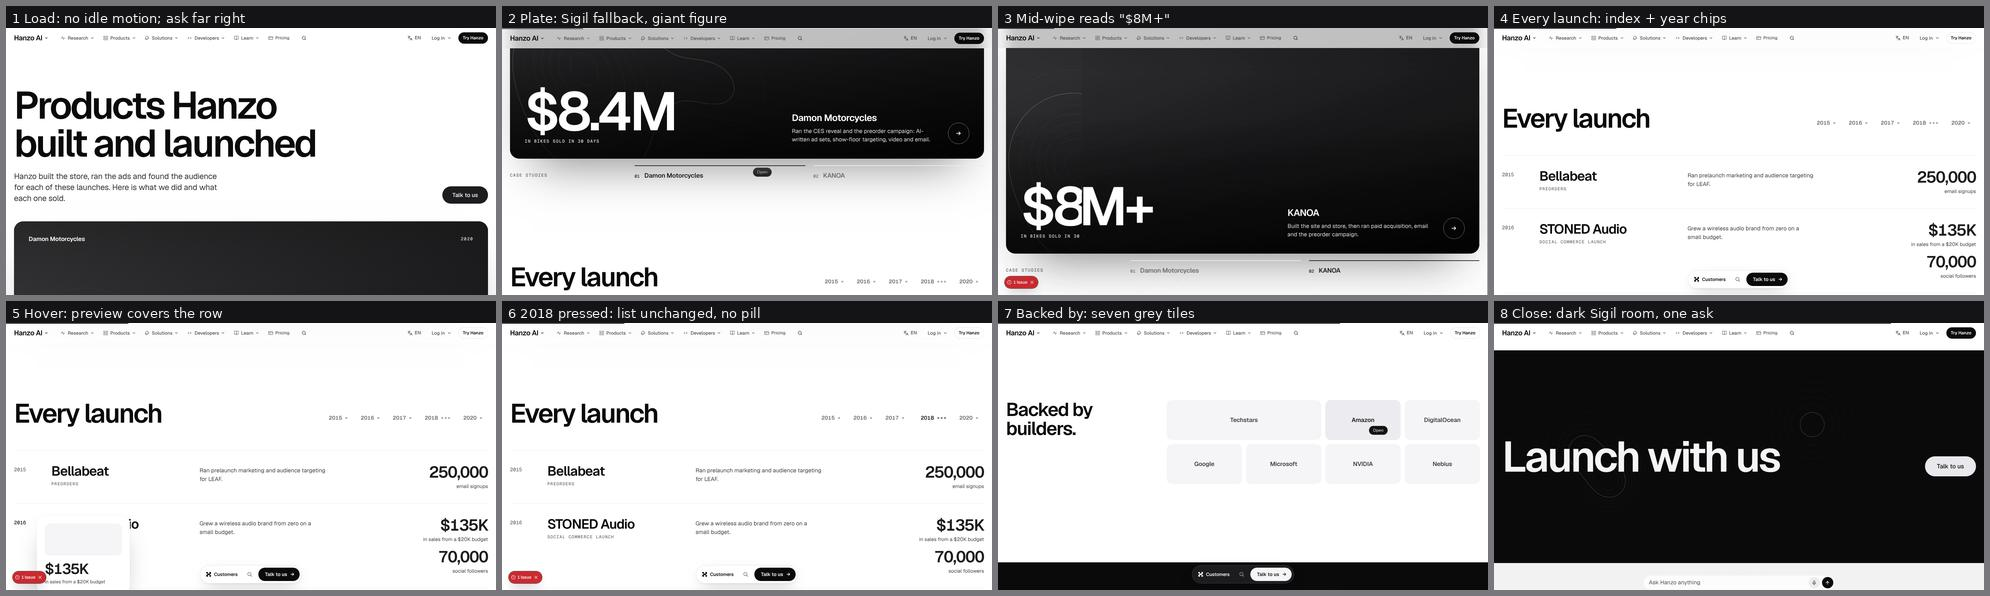
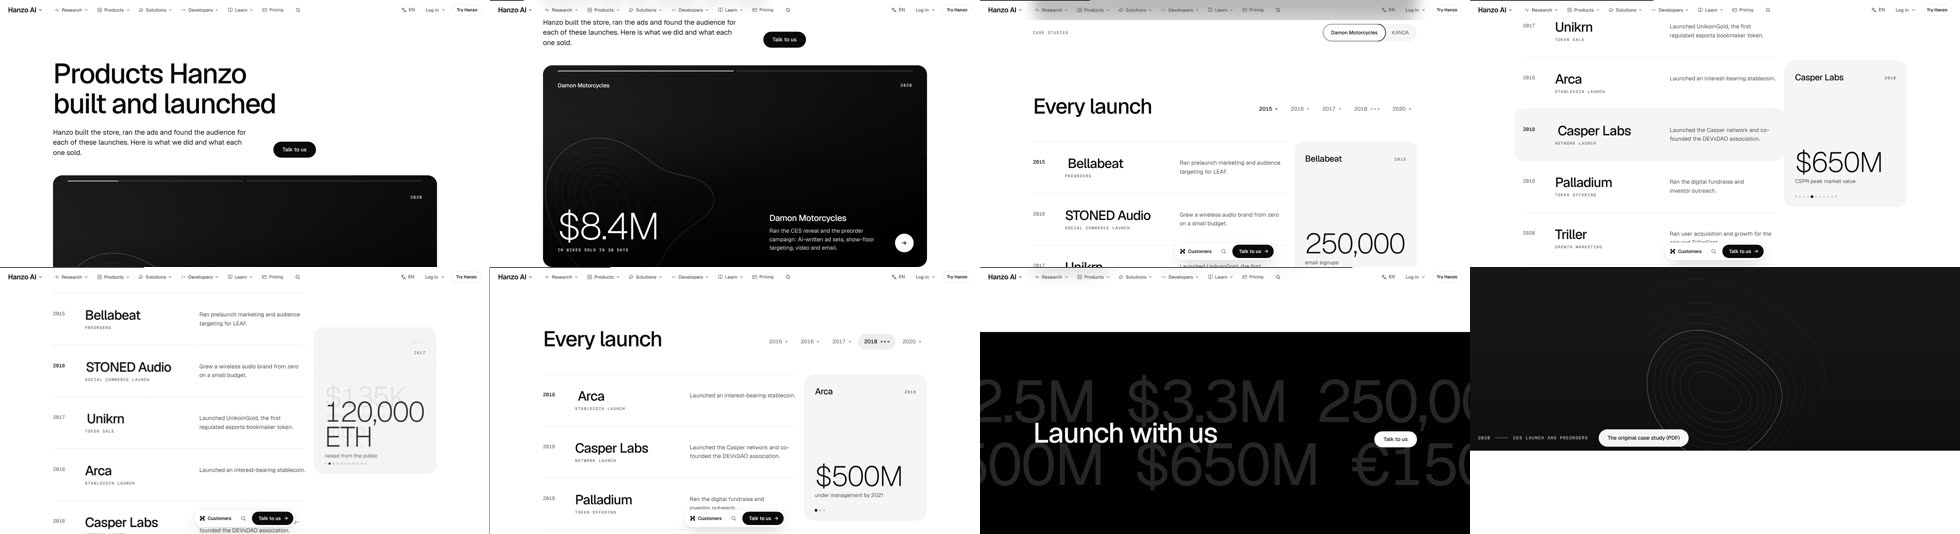
review: /customers re-run (7/10)
Claude-Session: https://claude.ai/code/session_01DqUybCfU4GgFpPAvhZChtu

diff --git a/docs/review/customers.md b/docs/review/customers.md
@@ -1,62 +1,101 @@
 # /customers — James-eye review
 
-Verdict: 6/10
-First complaint: "After the first big picture it's just a long list of names and numbers again. And I click 2018 and nothing happens."
+Verdict: 7/10
+First complaint: "On the phone, 'Every launch' is still four screens of names and numbers with nothing coming in or going out. And on the desktop, when the big number changes, the old one is still showing under the new one."
 
-Walked 7 Nov, page file at `11ec192` (`components/pages/Customers.jsx`, `Customers.css`). Filmed moving at 1470×801 and 375×812: wheel and finger scroll with a dwell on every screen, hover and press on desktop, taps on the phone, and a click on each case. Also checked a reload without the curtain, reduced motion, JS off, and widths of 320 and 375. Stills: `review/customers/desktop-walk.jpg`, `review/customers/phone-walk.jpg`. Case covers and logos are blocked in this box, so the plate shows its grey-and-Sigil fallback and the wall shows names. One run logged a hydration mismatch, but six later loads did not repeat it, so it is not counted.
+Walked 7 Nov, page file at `d996c96` (`components/pages/Customers.jsx`, `Customers.css`). I filmed it moving at 1470×801 and at 375×812 (isMobile, hasTouch), on a fresh visit and on a return visit. The walk scrolled with the wheel and by touch, dwelling on every screen. On desktop it hovered and pressed; on the phone it tapped. It used the year filter, the case tabs (mouse and arrow keys) and opened both cases. I also checked reduced motion, JS off, 320 and 375 wide, a Tab crawl, CLS and the console. Stills: `review/customers/desktop-walk.jpg`, `review/customers/phone-walk.jpg`.
+
+The arrival curtain never shows on /customers. It is home-only, and I tested that with automation hidden, so a first visit and a return visit behave the same here. Covers and logos come from hanzo.ai through the dev rewrite, which is blocked in this box, so I judged the plate's Sigil fallback and the name fallbacks. On the phone, the dev "1 Issue" badge is a hydration mismatch in the shared `FooterHTML` (`dangerouslySetInnerHTML` differs). It is not this page's fault: it showed 5 of 5 times when screenshots ran during load and 0 of 8 times otherwise.
 
 ## What works
-- The headline is a real Display moment: 115px in Zen, line height 0.94, one h1, and nothing above it. On a load without the curtain it cuts in line by line. CLS is 0.000002 on desktop and 0.00003 on the phone, with no font swap.
-- 0 UI hues. Everything is ink and greys, with one dark room. No eyebrows, no native tooltips, no browser-default controls.
-- The case plate is the right object. One case at a time, with its own figure as a 162px numeral. It wipes to the other case once (1.1s, in-out) and rests. On hover the arrow fills and moves 4px. Buttons and tiles press at .98, and tabs move 1px.
-- The index preview follows the pointer on a spring. When a logo fails it falls back to the launch name.
-- One ask in Hanzo's words, "Talk to us", in the hero and the close (`data-thumb`, `data-cta`). The shared bar carries it at both widths once the plate has passed.
-- Parity: text 72/72, links 10/10. Reduced motion leaves 0 running animations. With JS off every word is legible. On the phone no tap target in `main` is under 44px. No sideways scroll at 320 or 375. Clicking either case opens its own page.
+- **Every fix from the last review is in, and I verified each one moving:**
+  - The year chips filter: 11 rows become 3, the rest glide up 466px in about 200ms, and the page shortens from 5,608 to 4,346px.
+  - The pill shows (111×48, `#ededed`).
+  - The row sheet paints (`#f5f5f5`, opacity 1).
+  - The pointer preview is gone, and a pinned stage beside the rows does its job.
+  - The ask sits beside the lede (x=820, y=425 at 1470).
+  - The shared bar takes over at about scroll 719 on desktop and 600 on the phone, so there is no gap.
+  - The case tabs are kit `Tabs`; arrow keys move both the selection and focus.
+  - The 01/02 marks and the seven tiles are gone.
+- **The desktop index is now a scene.** As each row crosses the middle, the stage brings in that launch's figure at 84px Air and lifts the last one out: Bellabeat 250,000 → STONED $135K → Unikrn 120,000 ETH → Arca $500M → … → Personas Social. Pointing at a row answers at once: sheet, name 8px, stage. The hover tells you a number, which is exactly James's rule.
+- **The first screen moves on its own.**
+  - The plate's line starts filling as soon as the page is up (12% threshold).
+  - The h1 cuts in by line.
+  - The plate wipes to KANOA at about 6s, then back, and rests.
+  - Even the Sigil fallback drifts.
+  - The h1 is the deck's 84px/1.02, one h1, with nothing above it.
+- **The close is its own room.** "Launch with us" sits over two rows of Hanzo's own figures in `#262626` that slide against each other with the scroll. White "Talk to us"; the bar steps aside. There is no third Sigil room.
+- **The doorway open works.** On a warm load, ink grows from the plate (640ms) and lifts off the Damon page about 750ms after the click. Back returns to scroll 250.
+- **Housekeeping is clean.**
+  - CLS is 0.000005 on desktop and 0.000018 on the phone, with no font swap.
+  - Parity is 72/72 text and 10/10 links; `taste.py`, `unique.py` and `variety.py` pass.
+  - Reduced motion leaves 0 running animations, the plate holds, and the h1 is final.
+  - No sideways scroll at 320 or 375, and no phone tap target in `main` is under 44px.
+  - On a Tab crawl every stop shows the 2px ink ring with a white halo, and none sits under the header or the bar.
 
 ## The 11 answers
-1. **Sells in 5 seconds, moves within 1 second?** The words sell, and the ask is on the first screen at both sizes. But at 1470 the ask sits alone at x=1309, 650px right of the lede. Movement on the phone: yes (the plate wipes, its tab line fills, and the Sigil drifts). On desktop: no. On a first visit the headline cut-in plays under the arrival curtain. In the second after the curtain lifts, the only change is a faint Sigil sliver (6 grey levels or less, in a 165×12px strip). The plate's timer waits until 30% of its stage is on screen, and the first screen shows 27%, so nothing turns until you scroll.
-2. **One in, one out, or a document?** The hero and the plate are a scene. After that, "Every launch" is 11 static rows holding 11 figures, about 2,000px at 1470 and longer on the phone. That is a document. "Backed by builders." is a still grid. Nothing comes in or goes out as you scroll. The closing headline's cut-in is the only arrival after the hero.
-3. **A real visual object in every section?** Partly. Hero: the plate (with the fallback it is a dark slab at the fold, and its contour is barely visible). Index: type only, with logos at 24px and 55% opacity. Backers: seven grey tiles. Close: the Sigil.
-4. **One ask, sticky after the hero?** Phone: yes. Desktop: the bar waits for the whole hero section, and that section includes the plate and its tabs. So from scroll ≈530 to ≈1,420 neither "Talk to us" is on screen, only the header's "Try Hanzo". The first screen at both widths also shows two solid black pills, "Try Hanzo" and "Talk to us". That is the site header's behaviour, against PLAN 0.9.
-5. **Every hover and press answers, no jumps?** The hero ask, the plate, the tabs, the wall and the closing ask: yes. But four things fail:
-   - **Year chips.** The colour changes but the list does not, at either width. 10 rows get `hidden`, but `.xcu-row{display:grid}` overrides it, so all 11 stay on screen.
-   - **The year pill never shows.** It measures 0×0, because `.xcu-years button > span{position:relative}` beats `.xcu-pill{position:absolute}`.
-   - **The rows' "grey sheet" never appears.** Its `::before` at `z-index:-1` paints behind the page's white (sampled: white).
-   - **The preview card.** It lands at the pointer plus 28px, covers the hovered row's own name and description, and the ask bar sits on top of it. Its figure repeats the row's figure.
-
-   Also, the case tabs ignore the arrow keys.
-6. **Overlaps, font swap, layout shift?** At rest: no overlaps at either size, no swap, CLS ≈0. On hover: the preview covers the row and the ask bar covers the preview. Mid-wipe, for a few frames, the plate reads "$8M+ IN BIKES SOLD IN 30" beside "KANOA". While a logo is pending, its slot shows a grey bar (the `.x-media` fill under the invert filter); this is on the phone's first screen.
-7. **Which reference, is its motion there?** The plate feels like an Apple product tile, and the index with its pointer preview feels like osply or hamol. synchronized.studio is claimed: the picture carries `data-morph` and the case cover carries `data-morph-target`. But only the picture flies. The title (28px, bottom right) and the $8.4M figure do not land on the destination h1. In this box every View Transition aborts (it does the same from /solutions), so the screen holds and then cuts, and the open could not be judged moving. The route is correct.
-8. **Different from neighbours?** The hero, yes. /investors has a figure card, /enterprise a device, /press a stack of kit cards and /about a curve; a full-width case plate is this page's own. The close is the third Sigil room in the company pages, after /investors and /press.
-9. **18 areas (PLAN-COMPONENTS)?** See below. `docs/coverage/customers.md` makes three claims that are false here: "the year pill glides", "rows lift onto a grey sheet" and "a tap narrows the index".
-10. **Banned tells?** None, strictly. The nearest is the backers wall: seven plain grey boxes, which is the "lazy look".
-11. **Copy untouched?** Parity is clean. But four things are new on this page:
-    - $8.4M with "in bikes sold in 30 days", and $7M+ with "raised in preorders". These are verbatim from the case pages, so they trace to Hanzo's copy.
-    - "01" and "02" on the tabs.
-    - A bare "—" for undated launches, with no accessible name.
-
-    So the coverage claim "no new visible words" is not quite true.
+1. **Sells in 5 seconds, moves within 1 second?** Yes at both sizes: the headline, the lede and "Talk to us" are all on the first screen.
+   - **The order is wrong.** The plate (CSS, 0.25s delay) and the lede (0.5s) are timed from first paint, but the h1 waits for hydration. On a warm desktop load the plate is 65% in by 0.9s and the h1 cuts in at 1.2–2.0s. On the phone at 1.0s, the plate is the only thing in `main`. The headline arrives last.
+   - **The plate shows almost nothing on the first desktop screen.** At 1470×801 only its top 45% (275px) is on screen, so the screen shows a dark slab with "Damon Motorcycles 2020" and a 2px line. The $8.4M sits at y≈1,000–1,080, below the fold.
+2. **One in, one out, or a document?** On desktop, it is a scene now: the stage swaps one launch for the next and the filter closes the list up. On the phone, the stage is `display:none`. "Every launch" runs from y≈1,157 to ≈4,450 (about four screens) of rows with inline 40px figures. Only the sticky year rail's underline changes, so on the phone it is still a document.
+3. **A real visual object in every section?**
+   - Hero: the plate. With the fallback it is a dark slab with a faint contour, and during the turn it is blank for about 1s between the two cases' text, because both fallbacks are the same dark gradient and the wipe edge cannot be seen.
+   - Index: the stage on desktop, and nothing on the phone.
+   - Backers: a still row of grey names (logos when they load).
+   - Close: the sliding figures.
+4. **One ask, sticky after the hero?** Yes. "Talk to us" sits beside the lede, then in the shared bar from scroll ≈719 (desktop) and ≈600 (phone), then in the close. The header's "Try Hanzo" goes to outline once the page hydrates.
+5. **Every hover and press answers, no jumps?** Mostly.
+   - What answers: the hero ask darkens and presses at .97; the plate's arrow fills white, moves 4px and presses at .97, with the "Open" cursor label; tabs ink on hover; rows get the sheet, the 8px name move and the stage; years and wall go grey to ink; the close ask answers.
+   - **The stage swap overprints.** Enter and exit run together at the same spot, so for about 100ms "$135K", "in sales from a $20K budget", "70,000" and "2016" ghost under the incoming "120,000 ETH" (`desktop-walk.jpg`, row 2, first still). It happens at every handoff, 10 times down the list.
+   - **"120,000 ETH" breaks onto two lines in the stage.** The stage is 368px wide and the figure is set at 84px.
+   - **The hovered row's sheet runs into the stage.** The sheet's right edge is at x=943 and the stage starts at x=943, so the two rounded shapes join.
+   - The years and the wall press at .98, not the deck's .97.
+6. **Overlaps, font swap, layout shift?** At rest: none at either size, no swap, CLS ≈0. In motion: the stage overprint above.
+7. **Which reference, is its motion there?** The index plus the stage is osply/hamol with an Apple-style pinned panel, and it is there on desktop. The plate is an Apple product tile. synchronized.studio's card-becomes-hero is not attempted. The doorway ink stands in for it (Morph is broken site-wide), which is acceptable, but `doorway.js` has no 700ms hold cap. On a cold destination the screen stays black until the next page lifts the ink, with only an 8s failsafe; the phone held over 1.3s here.
+8. **Different from neighbours?** Yes. The full-width case plate, the index stage and a figure-slide close are this page's own, and `unique.py` passes.
+9. **18 parts?** Mostly covered. The card is wrong in places (listed below).
+10. **Banned tells?** None. No hue, no eyebrow above a heading ("Case studies" is a caption under the plate), no gradient text, no tiles.
+11. **Copy untouched?** Parity is clean.
+    - The $8.4M / $7M+ lines come from the case pages, and that question is already on the card.
+    - **SKULLY has moved.** It is first on live and here sits after Triller, because undated launches go to the end. That order change is not on the card's copy questions.
 
 ## Missing from the 18 areas
-- **2.3 Scroll story:** after the plate, no screen brings in one thing and takes one out. Desktop's first screen is idle.
-- **2.3 Morph:** the title does not land within 12px of the destination h1, because only the picture is tagged.
-- **2.4 Conversion:** about one screen of desktop scroll (the plate) has no "Talk to us" on screen.
-- **2.5 Claim integrity:** the backers wall ships without documented permission (PLAN 1.3 #3: "ships only for names with documented permission"). Its `BACKERS` array is local to this page and duplicates `Investors.jsx`, where the plan asks for one shared array.
-- **2.6:** the "—" has no accessible name from the register, and the "01"/"02" numerals are new marks.
-- **2.8:** the case tabs are hand-rolled (no arrow keys, no tabpanel) although kit `Tabs` exists. The pill and the row sheet are broken by CSS.
-- **2.9:** the plate timer's threshold is missed on the first screen. The preview sits over the text it previews.
-- **2.15 Catalogue:** the year filter does not filter.
-- **2.17:** a grey bar shows while a logo is pending. With JS off, the blocked images show broken-image icons, and the cover's alt text spills above the plate (minor; remote images).
+- **3 / 11 (phone composition):** the page's signature has no phone version. "Every launch" is about 3,300px of static rows at 375, so the phone gets no one-in-one-out.
+- **3 (first screen):** the h1 lands after the plate and the lede, because CSS arrivals race a hydration-gated cut-in. The desktop plate's figure is below the fold.
+- **8 / 9 (craft):**
+  - The stage enter and exit overprint.
+  - "120,000 ETH" wraps.
+  - The row sheet touches the stage.
+  - The years and wall press at .98.
+- **9 (transition):** the doorway has no hold cap (MASTER part 9: cap at 700ms).
+- **3 (JS off):** everything is legible, but the KANOA panel sits under Damon, so its copy cannot be seen, and the tabs do nothing. The blocked cover's alt text ("The Damon Hypersport") and a broken-image box show over the plate's top edge; that part is minor, as the images are remote.
+- **Card corrections:**
+  - Part 7 says "Radii … from tokens", but radii are literals. The plate and the stage use 28px (the composer radius) where the deck gives art cards 20 and tiles 24.
+  - Part 8 says "Press is .97"; the years and the wall press at .98.
+  - Part 10 says covers and logos "come from Hanzo's /public … on localhost they load". Nothing is mirrored into `public/`: dev pulls them from hanzo.ai by rewrite, and the static export has no fallback (MASTER part 10, mirror into `public/`).
+  - Part 9 says the plate turns "once", but it goes Damon → KANOA → Damon and then rests. Its line then shows only the first segment filled.
+  - Part 12 says "the list is aria-live", which means the whole 11-row `ol` is a polite live region, so a year tap would read the entire list.
+  - The SKULLY order question is missing.
 
 ## Fixes (in order)
-1. **Make the years work.** Add `.xcu-row[hidden]{display:none}`. Fix the pill by giving `.xcu-years button > .xcu-pill` `position:absolute`, or by scoping the relative rule to `> b, > .xcu-dots`. Then let the list close up with a layout animation, so a tap visibly narrows the index. Retest at 375.
-2. **Turn the index into a scene.** Pin a stage beside the rows. As each row crosses the middle, the stage shows that launch's logo and first figure at display size; this is the hover preview, made scroll-driven and moved off the text. On the phone, use a sticky figure strip over the rows. Same copy. This gives the middle its "one in, one out", and the preview stops covering the row.
-3. **Fix the hovers.** Give `.xcu-row` `isolation:isolate` so its sheet shows. Keep the preview in the figure column, never over the name or description, and above the ask bar (or let the bar step aside while the preview shows).
-4. **Wake the desktop first screen.** Start the plate at `amount: 0.2`, or as soon as its top is in view. Move the 01/02 tab line onto the plate's top edge, so the "it will turn" cue is visible together with the plate. Fade the outgoing text before the wipe edge crosses it, so no "$8M+" frame appears. Put "Talk to us" beside the lede instead of at x=1309.
-5. **Close the desktop ask gap.** End the hero section after the ask (the plate becomes its own section), so "Talk to us" stays on screen from scroll ≈530.
-6. **Housekeeping.**
-   - Use kit `Tabs` for the cases.
-   - Give the "—" its register name, and drop "01"/"02" or get James's yes.
-   - Hold the backers wall until permission exists, import one shared `BACKERS`, and show the logos without the seven tiles.
-   - Correct the coverage doc.
-   - Re-film the case open on a CI build, because this box aborts every View Transition.
+1. **Give the phone index its scene.**
+   - Put a slim sticky figure strip under the year rail. It shows the figure and label of the row crossing the middle, and swaps it as the desktop stage does: same copy, 300ms ease-emphasis, one in and one out.
+   - Or settle each row's figure once as it becomes `.on`.
+   - Either way, the four screens should read as one moving thing, not a list.
+2. **Stop the stage overprint.**
+   - Run the handoff in sequence: `AnimatePresence mode="wait"`, out in 150ms (rise 16px), in in 300ms. Or give each figure its own line mask, so outgoing and incoming never share pixels.
+   - Keep every figure on one line: `white-space: nowrap`, and step a figure longer than 8ch (120,000 ETH) down to clamp(40px, 4.4vw, 64px).
+3. **Let the headline lead, and show the plate's number on the first screen.**
+   - Start the `.xcu-in` and `.xcu-in2` arrivals only once the h1 cut-in starts, by adding the class after hydration or by putting the h1 mask on CSS keyframes too. The order should be h1, then lede and ask, then plate.
+   - At ≥900px, set the figure and name block in the plate's upper half, or trim hero padding, so $8.4M is on screen at 1470×801.
+   - Make the fallback turn readable: give each case its own Sigil tone or seed so the wipe edge shows, and bring the incoming text in at 0.25s, not 0.55s.
+4. **Craft.**
+   - End the row sheet 12px short of the stage, e.g. `inset: 0 -12px 0 -24px`.
+   - Set years and wall press to .97.
+   - Use deck radii: plate 20 (art card), stage 24 (tile).
+   - Cap the doorway hold at 700ms, then cut to the page.
+5. **Housekeeping.**
+   - Correct the coverage card (radii, press, media mirroring, plate turns, aria-live).
+   - Add "SKULLY moved from first to after Triller" to the copy questions, or keep Hanzo's order.
+   - Narrow `aria-live` to a one-line count, e.g. the year chip's existing label.
+   - With JS off, show both cases stacked instead of KANOA hidden under Damon.
